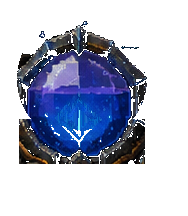
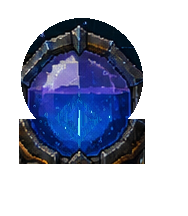
FQ-20 polish round 2: tile the plate grain, fix orb geometry, drop keying
Operator round-2 review at the live window scale (1917px) exposed what
the 1280 tours compressed:

- Dock plate: a 24px strip stretched ~30x smeared the wood grain into
  streaks. StyleBoxTexture now TILES horizontally - the grain repeats
  as planks instead of smearing.
- Health fill overlapped the ring bevels top/bottom (elliptical punch,
  circular disk sized to the long axis). PAINTED_ORB_GEOMETRY radius
  now follows the punch's SHORT axis; the liquid sits inside the glass.
- Attunement: the per-pixel navy/annotation keying shredded dark
  crystal and ring pixels into strands. Extraction is geometric-only
  again (tight +12 silhouette disk, no crown rect, no color keying);
  the remaining thin halo band reads as a cast shadow.
- Charge overlay radius tightened to the crystal (48) so the dim layer
  no longer sits on the metal ring.

Gates green; isolated-worktree smoke 318/318; damage-state tour
re-rendered and inspected at the operator's native 1917x1033 scale.

diff --git a/scripts/art/slice_hud_chrome.py b/scripts/art/slice_hud_chrome.py
@@ -241,26 +241,13 @@ def build(src: Image.Image, debug_dir: Path | None) -> dict[str, Image.Image]:
     orb_a = src.crop((1172, 524, 1360, 740)).convert("RGBA")
     acx, acy, ahw, ahh, _abot = _measure_liquid(orb_a, _violet)
     ar = max(ahw, ahh) + 4.0
-    # Tight disk (+16, not +30): the mockup bakes a dark scene-glow halo
-    # around the orb that read as a dirty circle in-game (operator polish).
-    # No crown rect — it kept a slab of dark background above the ring.
+    # Tight geometric silhouette ONLY — per-pixel color keying shredded the
+    # dark crystal/ring pixels into strands (operator polish loop 2). The
+    # +12 disk keeps the metal side columns; the thin remaining halo band
+    # reads as a cast shadow. No crown rect (it kept a slab of background).
     _apply_shape_mask(orb_a,
-        [(acx, acy, ar + 16)],
+        [(acx, acy, ar + 12)],
         [(acx - ar - 14, acy + ar - 8, acx + ar + 14, acy + ar + 36)])
-    # Key out the near-black navy halo that survives inside the disk, and
-    # delete stray annotation ink outside the crystal (isolated cyan dashes
-    # end up floating over transparency where inpainting cannot reach).
-    ap = orb_a.load()
-    for y in range(orb_a.height):
-        for x in range(orb_a.width):
-            p = ap[x, y]
-            if p[3] == 0:
-                continue
-            if max(p[0], p[1], p[2]) < 38 and p[2] > p[0] + 3:
-                ap[x, y] = (0, 0, 0, 0)
-            elif _is_annotation(p) \
-                    and (x - acx) ** 2 + (y - acy) ** 2 > (ar + 2) ** 2:
-                ap[x, y] = (0, 0, 0, 0)
     _inpaint_annotations(orb_a)
     # NO punch: the attunement vessel is a faceted crystal, not a liquid —
     # removing it destroys the art (operator polish loop). The runtime